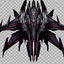
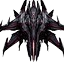
Miercoles 24

diff --git a/game.py b/game.py
@@ -33,7 +33,7 @@ asset_sound = resource_path('assets/audios/background_music2.mp3')
 background_sound = pygame.mixer.music.load(asset_sound)
 
 # Cargar imagen del jugador
-asset_playerimg = resource_path('assets/images/space-invaders.png')
+asset_playerimg = resource_path('assets/images/Nave.png')
 playerimg = pygame.image.load(asset_playerimg)
 
 #imagen del jugador 2
@@ -41,15 +41,15 @@ asset_playerimg = resource_path('assets/images/nave2.png')
 playerimg = pygame.image.load(asset_playerimg)
 
 # Cargar imagen de la bala 
-asset_bulletimg = resource_path('assets/images/bullet.png')
-bulletimg = pygame.image.load(asset_bulletimg)
+asset_bulletimg2 = resource_path('assets/images/bullet2.jpg')
+bulletimg2= pygame.image.load(asset_bulletimg2)
 
 # Cargar fuente para texto de game over
-asset_over_font = resource_path('assets/fonts/RAVIE.TTF')
+asset_over_font = resource_path('assets/fonts/StarJediHollow-A4lL.ttf')
 over_font = pygame.font.Font(asset_over_font, 40)
 
 # Cargar fuente para texto de puntaje
-asset_font = resource_path('assets/fonts/comicbd.ttf')
+asset_font = resource_path('assets/fonts/StarJediHollow-A4lL.ttf') 
 font = pygame.font.Font(asset_font, 32)
 
 # Establecer el título de la ventana
@@ -121,7 +121,7 @@ def enemy(x, y, i):
 def fire_bullet(x, y):
     global bullet_state
     bullet_state = "fire"
-    screen.blit(bulletimg, (x + 16, y + 10))
+    screen.blit(bulletimg2, (x + 16, y + 10))
 
 # Función para verificar si hubo colisión entre la bala y el enemigo
 def isCollision(enemyX, enemyY, bulletX, bulletY):
@@ -139,19 +139,101 @@ def game_over_text():
     y_offset = 0  # Desplazamiento inicial en y
 
     for line in lines:
-        over_text = over_font.render(line, True, (172, 0, 16))
+        over_text = over_font.render(line, True, (255, 255, 0))
         text_rect = over_text.get_rect(center=(screen_width // 2, (screen_height // 2) + y_offset))
         screen.blit(over_text, text_rect)
         y_offset += 40  # Aumenta el desplazamiento en y para la siguiente línea
 
-#Inicio del juego
-def game_introduction():
-    Lines =[
-        "Es periodo de conflicto",
-    "La galaxia ha sido atacada",
-    "Palpatine ha ejecutado la orden 66,",
-    "y ha enviado a su ejercito de clones a atacar ",
-    "la capital galactica, Coruscant, En la batalla encarnaras a Weddom,",
-    "un joven jedi que esta dispuesto a defender el planeta con su vida,",
-   "tu mission es defender la capital galactica y evitar que caiga en manos de los sith, pero sobre todo, sobrevivir"
-    ]
+        # Función principal del juego
+def gameloop():
+    global score, playerX, playerx_change, bulletX, bulletY, bullet_state
+    in_game = True
+    while in_game:
+        # Limpiar la pantalla
+        screen.fill((0, 0, 0))
+        screen.blit(background, (0, 0))
+
+        for event in pygame.event.get():
+            if event.type == pygame.QUIT:
+                in_game = False
+                pygame.quit()
+                quit()
+
+            if event.type == pygame.KEYDOWN:
+                # Maneja la movilidad del jugador y la bala
+                if event.key == pygame.K_LEFT:
+                    playerx_change = -5
+
+                if event.key == pygame.K_RIGHT:
+                    playerx_change = 5
+
+                if event.key == pygame.K_SPACE:
+                    if bullet_state == "ready":
+                        bulletX = playerX
+                        fire_bullet(bulletX, bulletY)
+
+            if event.type == pygame.KEYUP:
+                if event.key == pygame.K_LEFT or event.key == pygame.K_RIGHT:
+                    playerx_change = 0
+
+        # Aca se actualiza la posicion del jugador
+        playerX += playerx_change
+
+        if playerX <= 0:
+            playerX = 0
+        elif playerX >= 736:
+            playerX = 736
+
+        # Bucle que se ejecuta para cada enemigo
+        for i in range(no_of_enemies):
+            if enemyY[i] > 440:
+                for j in range(no_of_enemies):
+                    enemyY[j] = 2000
+                game_over_text()
+                break
+
+            enemyX[i] += enemyX_change[i]
+            if enemyX[i] <= 0:
+                enemyX_change[i] = 5
+                enemyY[i] += enemyY_change[i]
+            elif enemyX[i] >= 736:
+                enemyX_change[i] = -5
+                enemyY[i] += enemyY_change[i]
+
+            # Aca se verifica si hay colision entre el enemigo y la bala   
+            collision = isCollision(enemyX[i], enemyY[i], bulletX, bulletY)
+            if collision:
+                bulletY = 480
+                bullet_state = "ready"
+                score += 1
+                enemyX[i] = random.randint(0, 736)
+                enemyY[i] = random.randint(0, 150)
+
+            enemy(enemyX[i], enemyY[i], i)
+
+        if bulletY < 0:
+            bulletY = 454
+            bullet_state = "ready"
+        if bullet_state == "fire":
+            fire_bullet(bulletX, bulletY)
+            bulletY -= bulletY_change
+
+        player(playerX, playerY)
+        show_score()
+
+        pygame.display.update()
+        clock.tick(120)
+
+gameloop()
+
+# #Inicio del juego
+# def game_introduction():
+#     Lines =[
+#         "Es periodo de conflicto",
+#     "La galaxia ha sido atacada",
+#     "Palpatine ha ejecutado la orden 66,",
+#     "y ha enviado a su ejercito de clones a atacar ",
+#     "la capital galactica, Coruscant, En la batalla encarnaras a Weddom,",
+#     "un joven jedi que esta dispuesto a defender el planeta con su vida,",
+#    "tu mission es defender la capital galactica y evitar que caiga en manos de los sith, pero sobre todo, sobrevivir"
+#     ]
